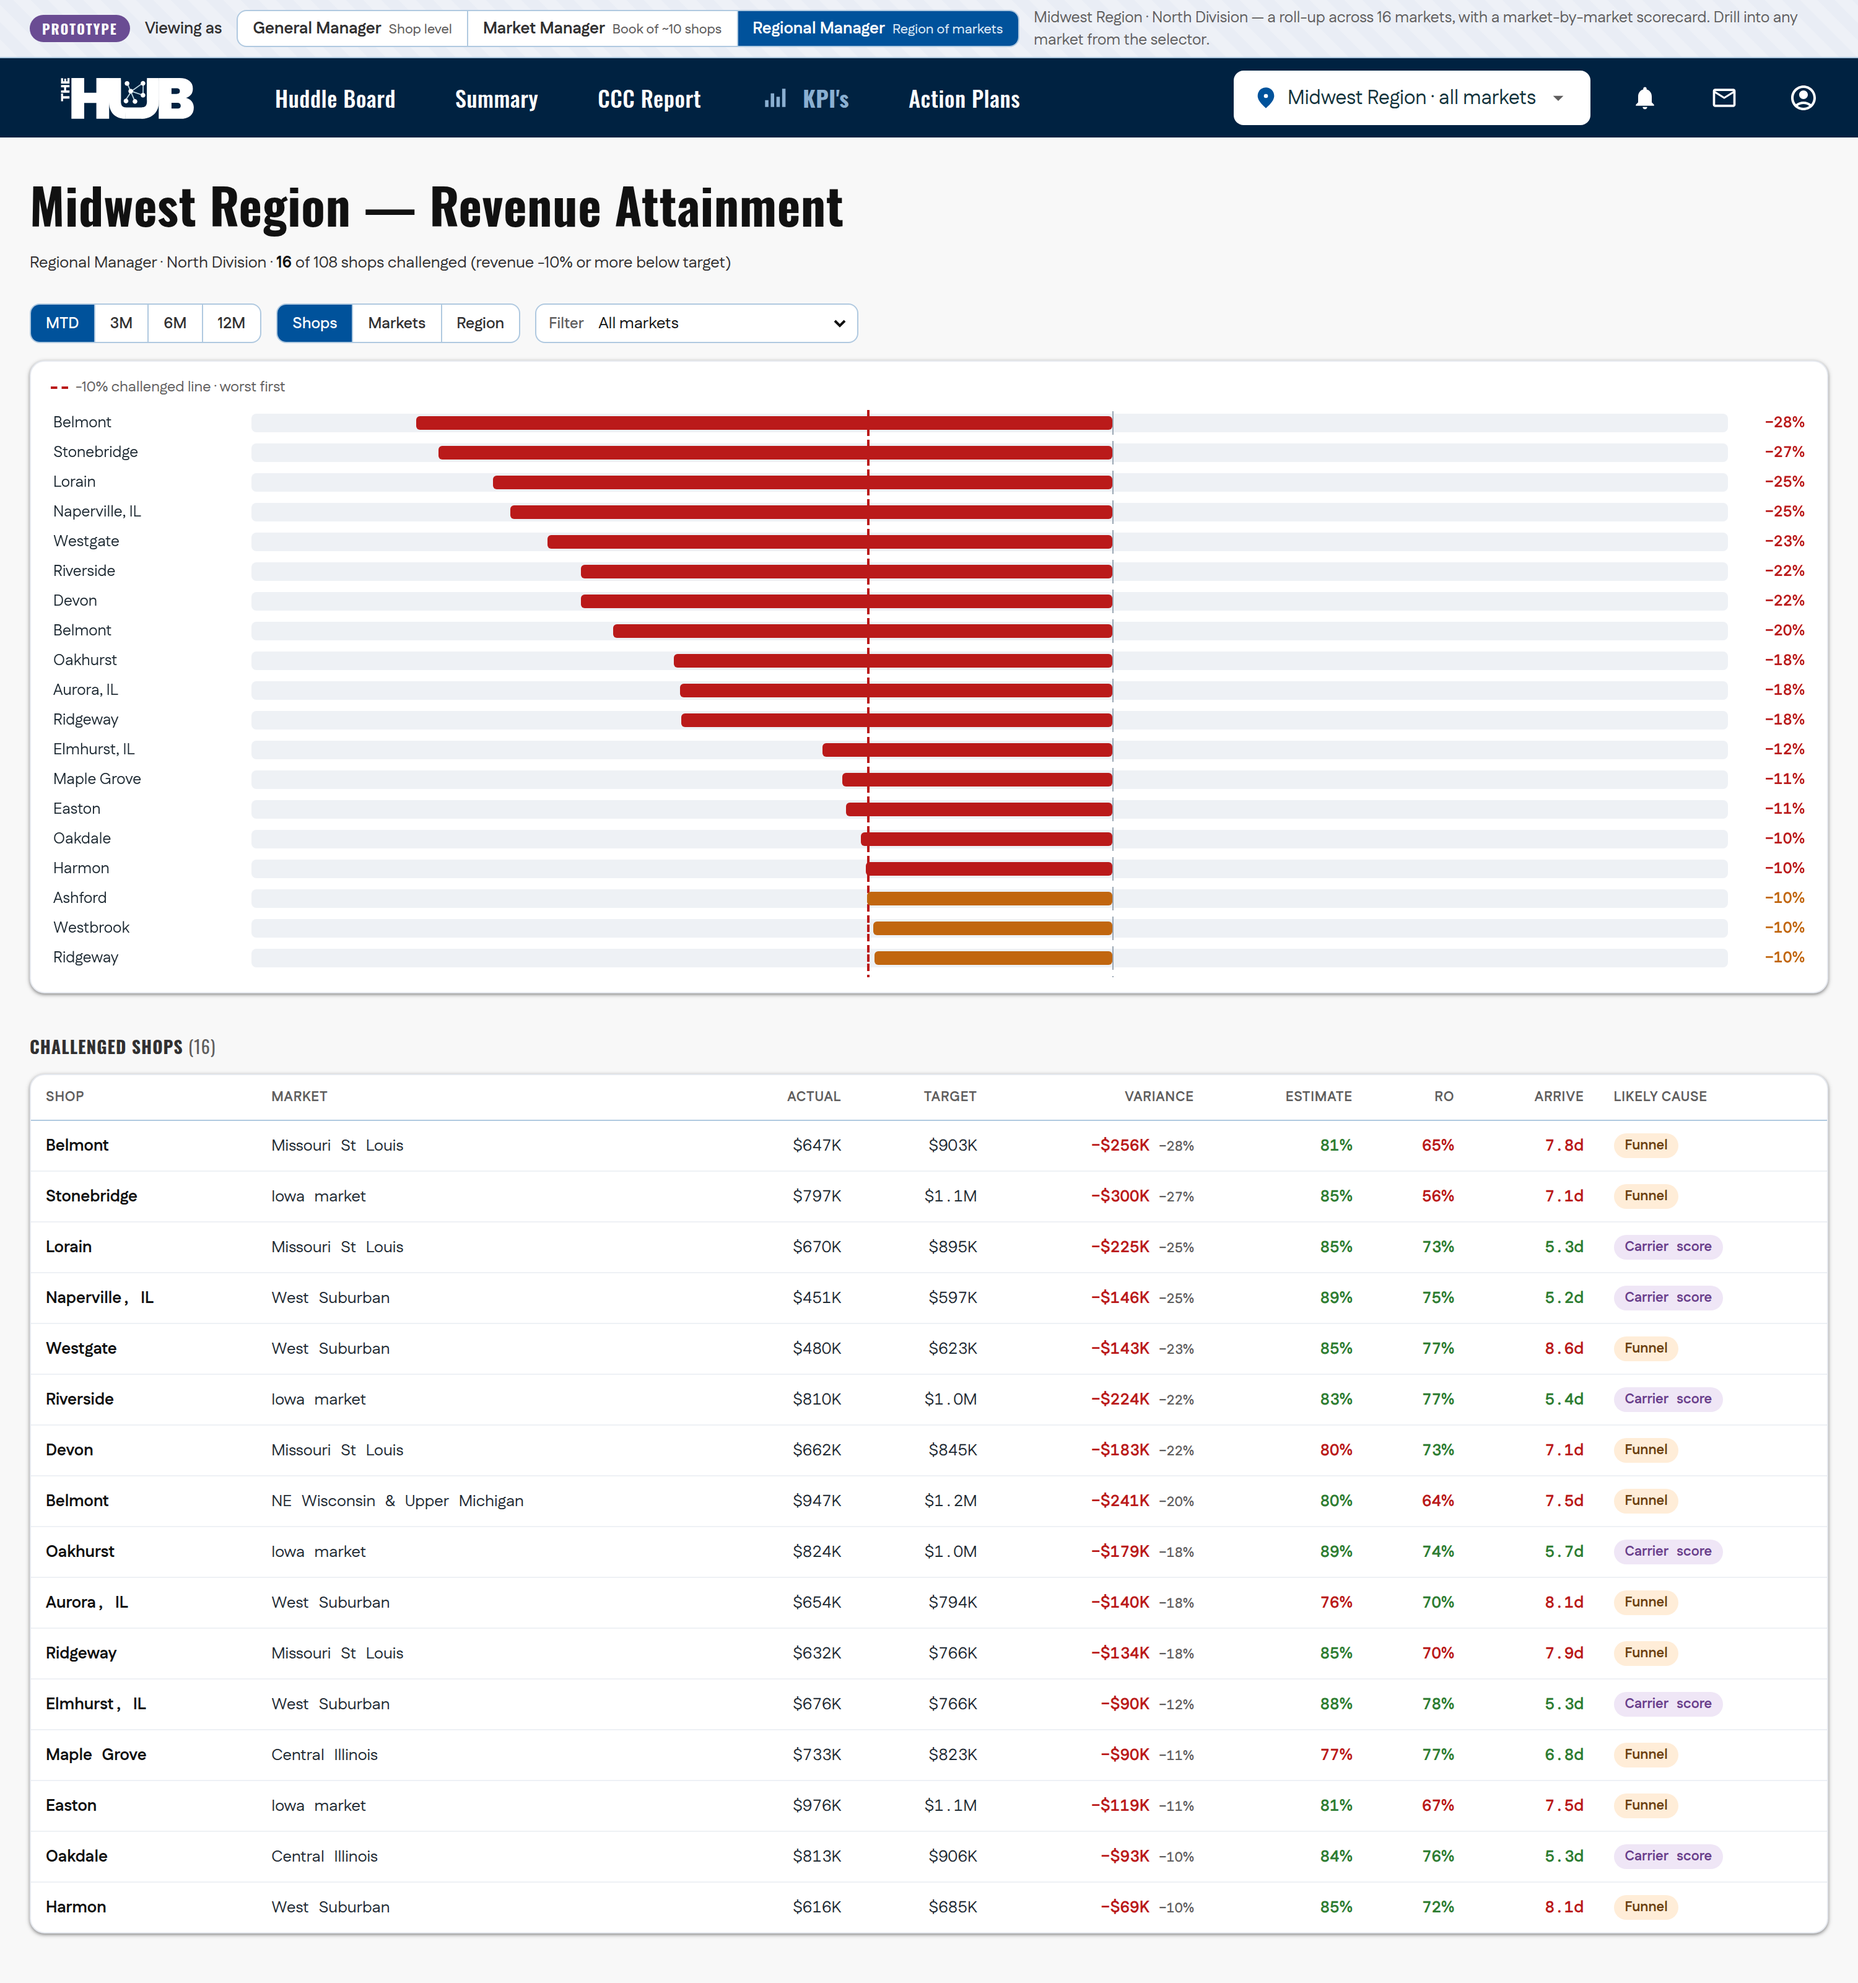
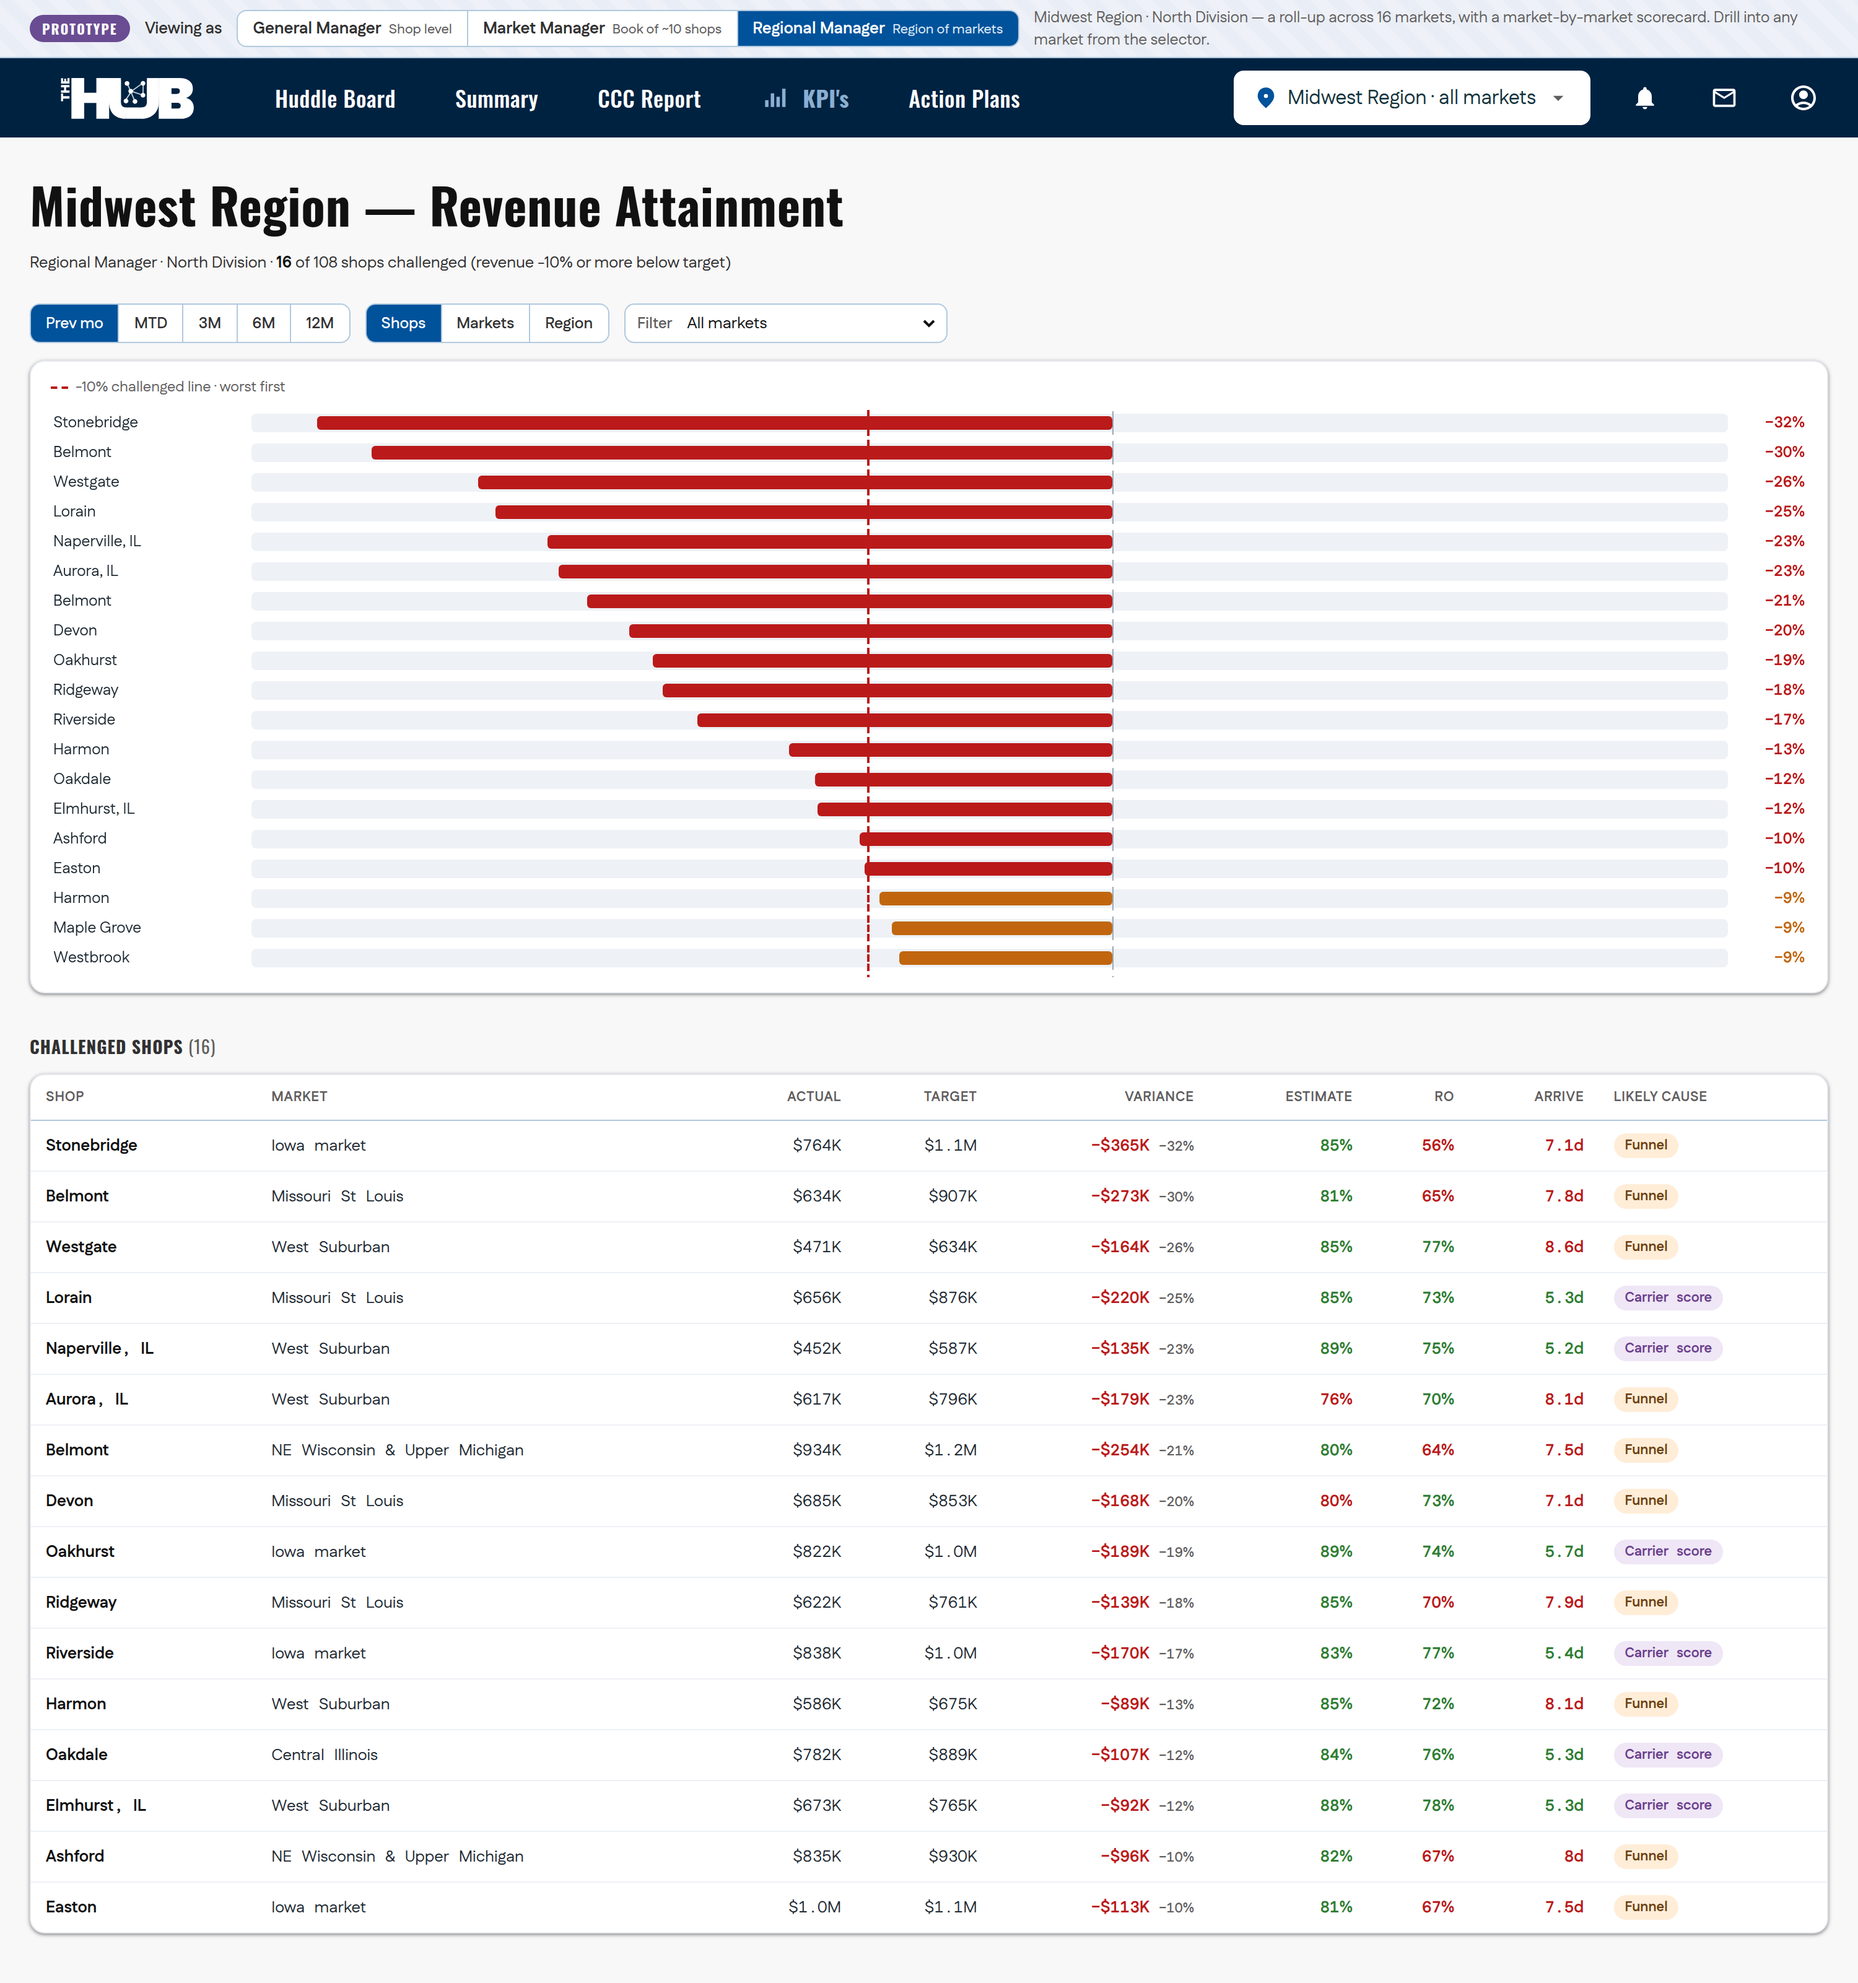
KPIs: add a Previous-month period and default to it
Add a "Prev mo" option (the last complete month) alongside MTD / 3M / 6M / 12M,
and make it the default period. Periods now carry an `offset` — how many months
back the window ends — so "Prev mo" is months:1, offset:1 (the month before the
current MTD). revFor and the shop-detail revenue chart both read the offset, so
the whole dashboard (attainment chart, challenged flagging, shop detail) reflects
the selected period.

- app.js: PERIODS gains the prev entry + offset field; revFor and revChartHTML
  window on `end = 12 - offset`; kpiState.period defaults to 'prev'.
- README + previews updated.

Claude-Session: https://claude.ai/code/session_013BSpAv4JN11AdbKWqu4hxe

diff --git a/assets/app.js b/assets/app.js
@@ -552,12 +552,13 @@
   var DRP = CFG.drp || { scoreMin: 0, scoreMax: 100, variables: [] };
   var CARRIERS = DATA.carriers || [];
   var RULE_TEXTS = DATA.ruleTexts || [];
-  var PERIODS = [{ key: 'mtd', label: 'MTD', months: 1 }, { key: 'm3', label: '3M', months: 3 }, { key: 'm6', label: '6M', months: 6 }, { key: 'm12', label: '12M', months: 12 }];
+  // offset = how many months back the window ends (0 = through the current month; 1 = the previous complete month)
+  var PERIODS = [{ key: 'prev', label: 'Prev mo', months: 1, offset: 1 }, { key: 'mtd', label: 'MTD', months: 1, offset: 0 }, { key: 'm3', label: '3M', months: 3, offset: 0 }, { key: 'm6', label: '6M', months: 6, offset: 0 }, { key: 'm12', label: '12M', months: 12, offset: 0 }];
   var MONTH_ABBR = ['Jan', 'Feb', 'Mar', 'Apr', 'May', 'Jun', 'Jul', 'Aug', 'Sep', 'Oct', 'Nov', 'Dec'];
   var CUR_MONTH = TODAY.getMonth();
   var RA_MIN = -0.35, RA_MAX = 0.25;   // fixed revenue-variance chart domain
 
-  var kpiState = { view: 'dashboard', shopId: null, period: 'mtd', gran: 'shops', market: 'all', carriers: null };
+  var kpiState = { view: 'dashboard', shopId: null, period: 'prev', gran: 'shops', market: 'all', carriers: null };
 
   function clamp(v, lo, hi) { return v < lo ? lo : v > hi ? hi : v; }
   function pctStr(p) { return (p >= 0 ? '+' : '−') + Math.abs(Math.round(p * 100)) + '%'; }
@@ -649,9 +650,9 @@
   // revenue summed over the selected period window (MTD = current month)
   function revFor(id, period) {
     var d = shopData(id); if (!d) return { actual: 0, target: 0, variancePct: 0, variance: 0 };
-    var n = (PERIODS.filter(function (p) { return p.key === period; })[0] || PERIODS[0]).months;
-    var a = 0, t = 0;
-    for (var i = 12 - n; i < 12; i++) { a += d.months[i].actual; t += d.months[i].target; }
+    var pd = PERIODS.filter(function (p) { return p.key === period; })[0] || PERIODS[0];
+    var end = 12 - (pd.offset || 0), a = 0, t = 0;
+    for (var i = end - pd.months; i < end; i++) { a += d.months[i].actual; t += d.months[i].target; }
     var vp = t ? (a - t) / t : 0;
     return { actual: a, target: t, variancePct: vp, variance: a - t };
   }
@@ -874,9 +875,9 @@
   }
 
   function revChartHTML(d) {
-    var n = (PERIODS.filter(function (p) { return p.key === kpiState.period; })[0] || PERIODS[0]).months;
-    if (kpiState.period === 'mtd') n = 3; // MTD still shows recent context
-    var slice = d.months.slice(12 - Math.max(n, 3));
+    var pd = PERIODS.filter(function (p) { return p.key === kpiState.period; })[0] || PERIODS[0];
+    var end = 12 - (pd.offset || 0), n = Math.max(pd.months, 3);  // show at least 3 months of context, ending at the period
+    var slice = d.months.slice(Math.max(0, end - n), end);
     var W = 620, H = 150, pad = 8, mL = 30, mR = 30, mB = 16;
     var vals = []; slice.forEach(function (p) { vals.push(p.actual, p.target); });
     var lo = Math.min.apply(null, vals) * 0.96, hi = Math.max.apply(null, vals) * 1.04, rng = (hi - lo) || 1;

diff --git a/README.md b/README.md
@@ -117,7 +117,8 @@ A shop is **Challenged** when that is **≤ −10%** (the one place this number 
 
 **Dashboard (landing, for Market & Regional Managers).** One chart: revenue
 attainment across the shops in scope, **worst-first, with the −10% line drawn on it**.
-Density comes from controls inside the pane — a **period** selector (MTD / 3M / 6M / 12M),
+Density comes from controls inside the pane — a **period** selector (**Prev mo**
+— the default, the last complete month — / MTD / 3M / 6M / 12M),
 a **market filter**, and a **Shops / Markets / Region** granularity toggle that
 re-aggregates within your own scope (a GM sees only their shop). Below the chart, a
 **challenged-shop list** carries revenue variance (dollars + %) and the three funnel
